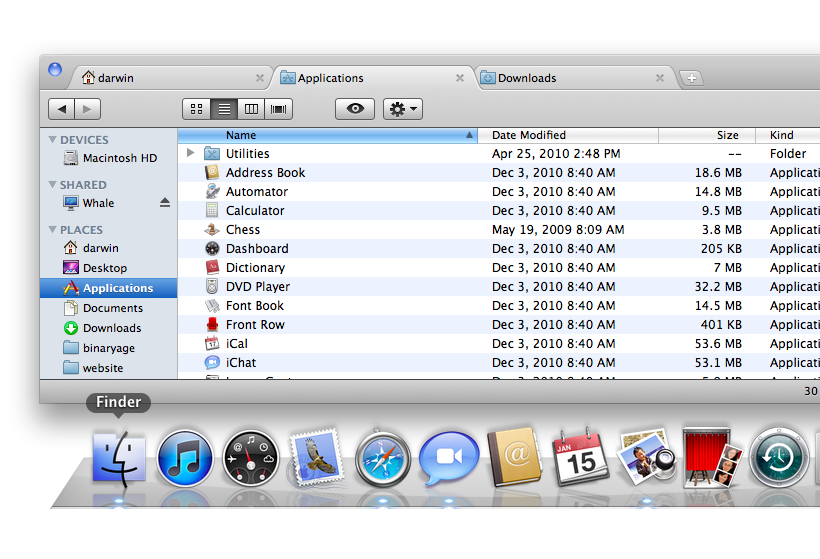
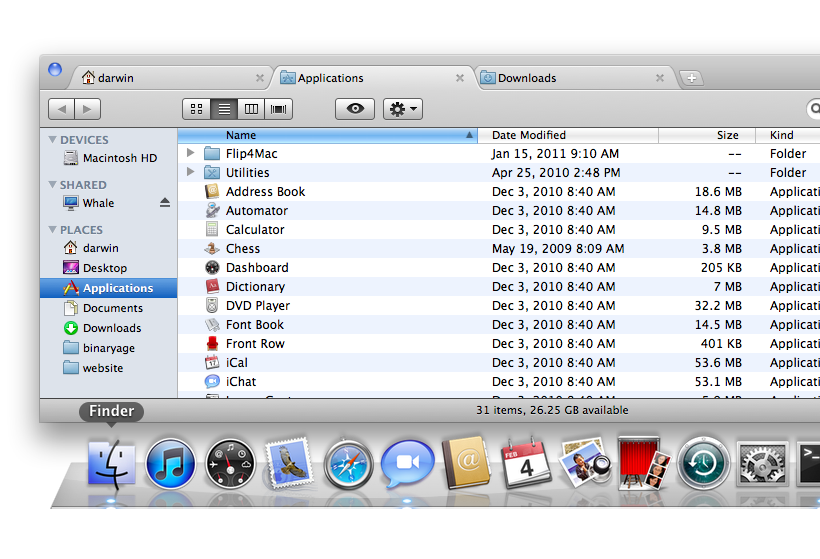
new screenshots + preview using macbook air

diff --git a/index.md b/index.md
@@ -33,23 +33,23 @@ ogmeta: {
 shots: [{
     title: "Dual Mode",
     thumb: "/images/showcase/thumb-showcase-dual-mode.png",
-    full: "/images/showcase/showcase-dual-mode.png"
+    full: "/images/showcase/desktop-showcase-dual-mode.png"
 },    {
     title: "Finder with tabs!",
     thumb: "/images/showcase/thumb-showcase-tabs.png",
-    full: "/images/showcase/showcase-tabs.png"
+    full: "/images/showcase/desktop-showcase-tabs.png"
 },    {
     title: "Folders on Top",
     thumb: "/images/showcase/thumb-showcase-folders-on-top.png",
-    full: "/images/showcase/showcase-folders-on-top.png"
+    full: "/images/showcase/desktop-showcase-folders-on-top.png"
 },    {
     title: "Show System Files",
     thumb: "/images/showcase/thumb-showcase-system-files.png",
-    full: "/images/showcase/showcase-system-files.png"
+    full: "/images/showcase/desktop-showcase-system-files.png"
 },    {
     title: "Visor window",
     thumb: "/images/showcase/thumb-showcase-visor.png",
-    full: "/images/showcase/showcase-visor.png"
+    full: "/images/showcase/desktop-showcase-visor.png"
 }]
 ---
  
